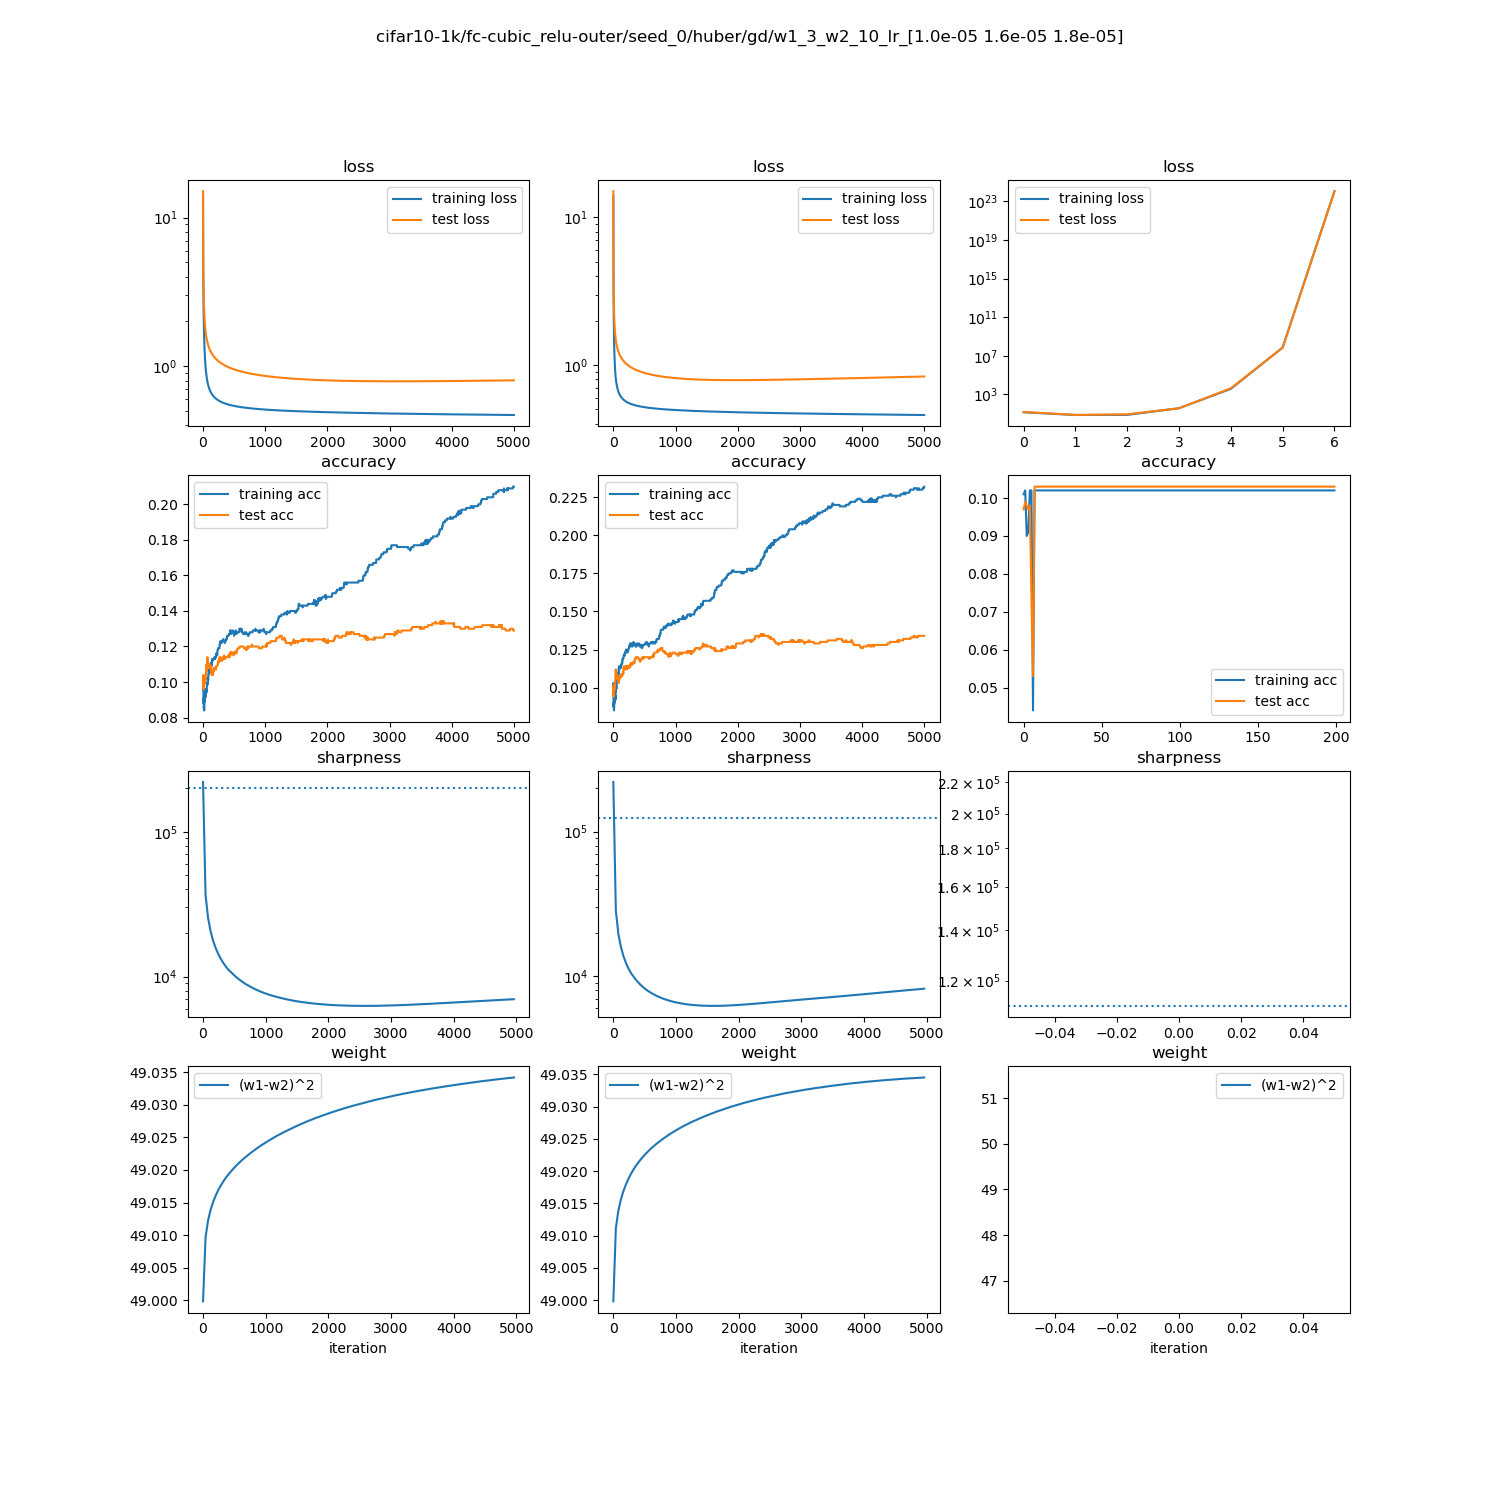
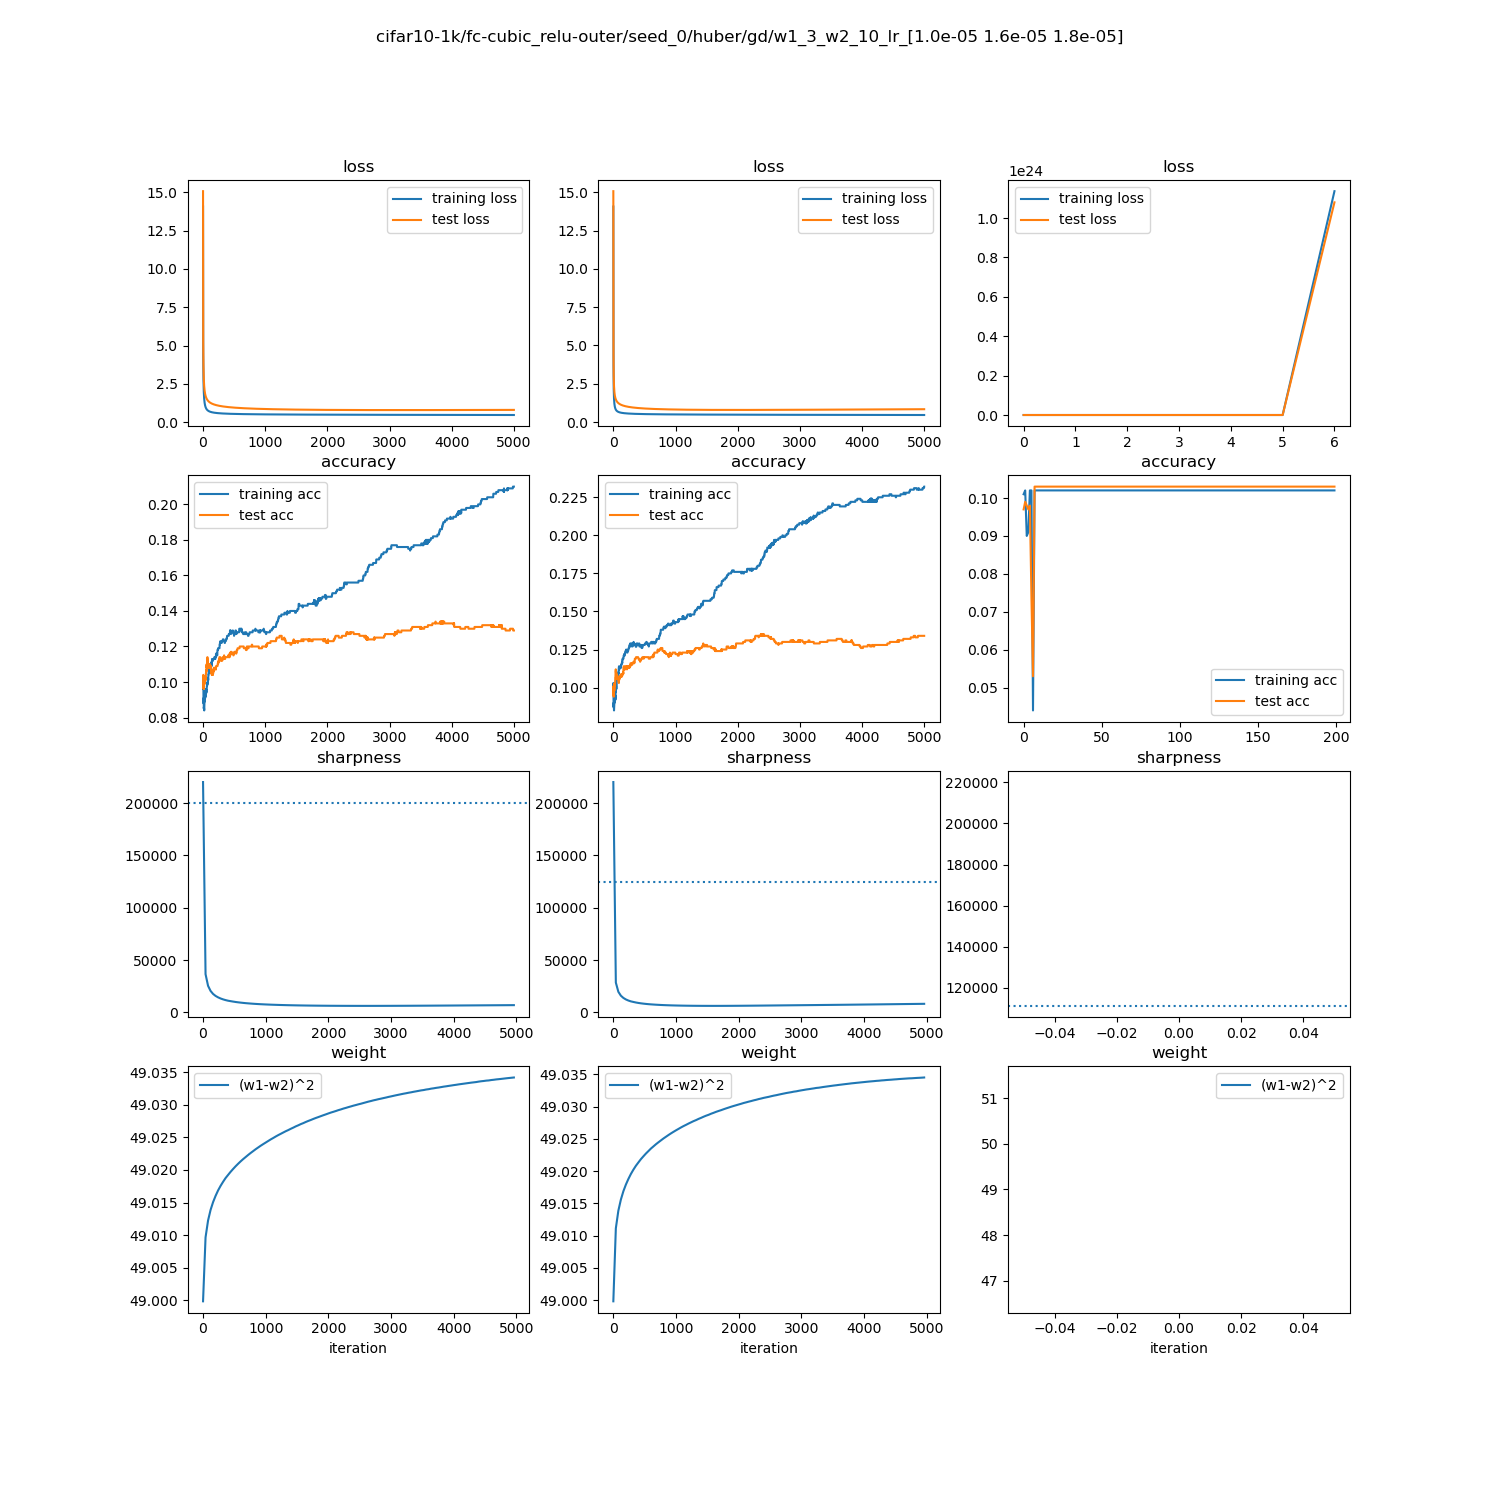
cubic_outer 3_10 200000 iterations

diff --git a/src/scheduler.py b/src/scheduler.py
@@ -264,7 +264,7 @@ for weight in ["w1_3_w2_10"]:
 
     # for lr in lr_list_huber_cubicrelu_outer[weight]:
     for lr in [0.000016]:
-        os.system(f"python src/gd.py cifar10-1k fc-cubic_relu-outer  huber {lr} 200000 --neigs 1  --eig_freq 40 --width 200 --init_weight {weight}")  
+        os.system(f"python src/gd.py cifar10-1k fc-cubic_relu-outer  huber {lr} 200000 --neigs 1  --eig_freq 400 --width 200 --init_weight {weight}")  
 
 '''
 Extension
